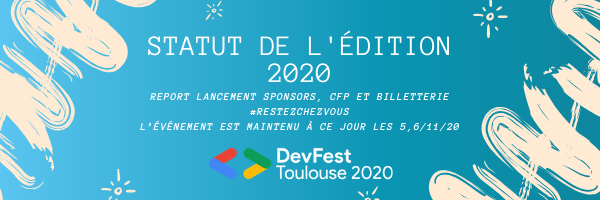
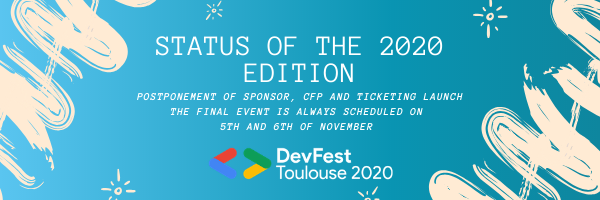
fix Corona1 images

diff --git a/content/blog/corona-1.fr.md b/content/blog/corona-1.fr.md
@@ -1,7 +1,7 @@
 ---
 title: Status de l'édition 2020
 brief: Report lancement sponsors, CFP et billetterie
-image: /images/blog/corona-1.jpg
+image: /images/blog/corona-1-fr.jpg
 infoClass: light
 toc: false
 date: 2020-03-16
